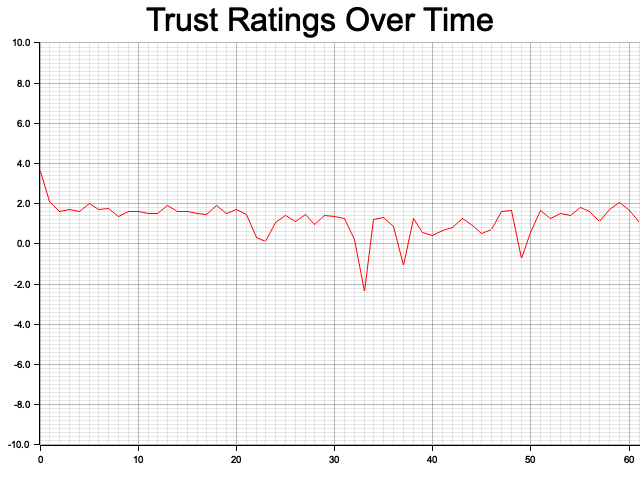
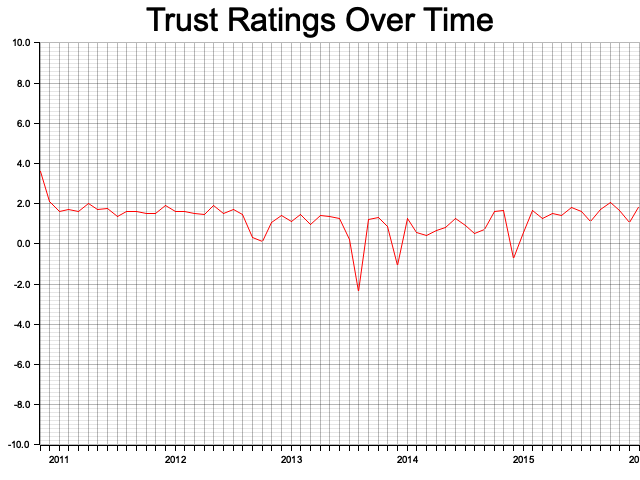
trust rating over time plot created

diff --git a/src/main.rs b/src/main.rs
@@ -12,7 +12,6 @@ fn main() -> Result<(), Box<dyn std::error::Error>> {
     let max_time: f64 = data[data.len()-1].3;
     let min_time: f64 = data[0].3;
     println!("Length of time dataset covers: {} years", (max_time - min_time)/31_536_000.0);
-    // println!("{} to {}", 1970.0 + min_time/31_536_000.0, 1970.0 + max_time/31_536_000.0);
 
     let times: Vec<f64> = col_to_vec(&data, 3).get_flt_vec().unwrap();
     let times_month_year: Vec<(u32, i32)> = times.iter().map(|&seconds| epoch_to_date(seconds)).collect();
@@ -20,8 +19,8 @@ fn main() -> Result<(), Box<dyn std::error::Error>> {
     println!("{:?} to {:?}", times_month_year[0], times_month_year[times_month_year.len() - 1]);
 
     // Makes a new times vector where the values are the months since the first month in the data
-    let start_year = times_month_year[0].1;
-    let start_month = times_month_year[0].0;
+    let start_year: i32 = times_month_year[0].1;
+    let start_month: u32 = times_month_year[0].0;
     let times_months_after_start: Vec<usize> = times_month_year.iter().map(|&(month, year)| {
         let years = year - start_year;
         let months = month as i32 - start_month as i32;
@@ -38,7 +37,7 @@ fn main() -> Result<(), Box<dyn std::error::Error>> {
     let mut current_time = times_months_after_start[0];
     let mut current_ratings: Vec<f64> = Vec::new();
     for (&time, &rating) in times_months_after_start.iter().zip(ratings.iter()) {
-        if time != current_time {
+        if time != current_time{
             // Calculate mean
             let mean_rating = current_ratings.iter().sum::<f64>() / current_ratings.len() as f64;
             ratings_by_month.push(mean_rating);
@@ -50,6 +49,10 @@ fn main() -> Result<(), Box<dyn std::error::Error>> {
         }
         current_ratings.push(rating as f64);
     }
+    // For the last month
+    let mean_rating = current_ratings.iter().sum::<f64>() / current_ratings.len() as f64;
+    ratings_by_month.push(mean_rating);
+    unique_times_months_after_start.push(current_time);
 
     // Create file for graph to be displayed
     let root = BitMapBackend::new("ratingsOverTime_plot.png", (640, 480)).into_drawing_area();
@@ -60,7 +63,16 @@ fn main() -> Result<(), Box<dyn std::error::Error>> {
         .caption("Trust Ratings Over Time", ("sans-serif", 40))
         .x_label_area_size(35).y_label_area_size(40)
         .build_cartesian_2d(0..*unique_times_months_after_start.last().unwrap(), -10.0..10.0)?;
-    chart.configure_mesh().x_labels(10).draw()?;
+    // Calculate ticks for the start of each year
+    let year_ticks: Vec<usize> = unique_times_months_after_start.iter().filter(|&&months| (months + start_month as usize - 1) % 12 == 0).cloned().collect();
+    chart.configure_mesh().x_labels(unique_times_months_after_start.len()).x_label_formatter(&|x| {
+        let year_index = (start_year + ((*x as i32 + start_month as i32 - 1) / 12)) - start_year;
+        if year_ticks.contains(&(*x as usize)) {
+            return format!("{}", start_year + year_index)
+        } else {
+            return "".to_string()
+        }
+    }).draw()?;
 
     // Plotting
     chart.draw_series(LineSeries::new(unique_times_months_after_start.iter().zip(ratings_by_month.iter()).map(|(&x, &y)| (x,y)), &RED))?;
@@ -68,7 +80,7 @@ fn main() -> Result<(), Box<dyn std::error::Error>> {
     // Finalize graph
     root.present()?;
 
-    // Must have main function return something due to making the graph
+    // Must have main function return something due to creating the graph
     return Ok(())
 }
 
